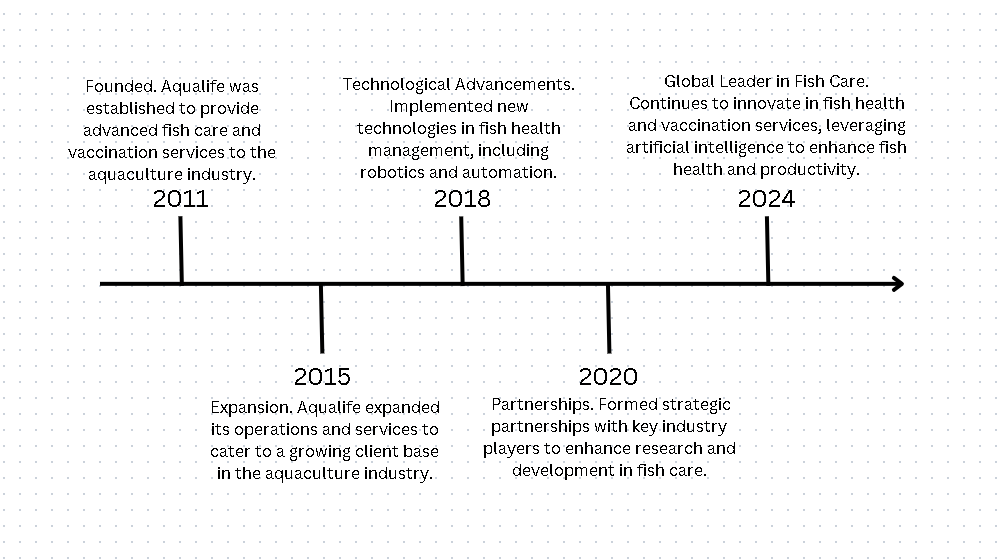
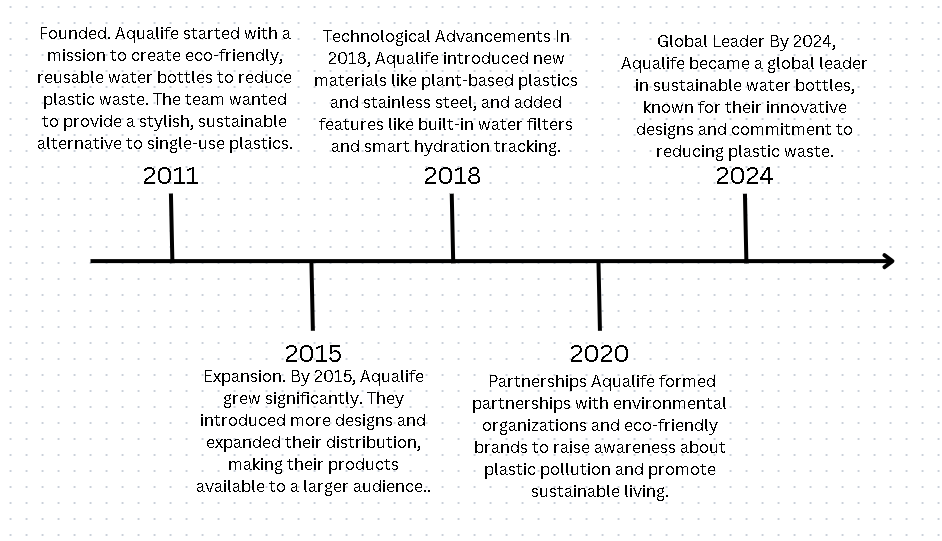
history

Changed region(s): [[0.0308, 0.0296, 0.9544, 0.9168]]

diff --git a/HTML/history.html b/HTML/history.html
@@ -4,7 +4,32 @@
 <head>
     <link rel="stylesheet" href="../CSS/style.css">
 <style>
-
+.box{
+    display:flex;
+    flex-direction:row;
+    height:800px;
+    height:max-content;
+}
+.imagetimeline{
+    width: 100%;
+    height: 100%;
+}
+.timelinecontainer{
+   display:flex;
+   flex: 0 0 20%;
+    flex-direction: column;
+   
+}
+.timelinecontainer>p{
+    flex-shrink: 1;
+    font-size:large;
+    text-align: center;
+    padding: 2% 2% 2% 2%;
+}
+.timelineheading{
+    text-align: center;
+    
+}
 @media (max-width:1600px){
     #navbar>a:link,#navbar>a:visited{
         display:flex;
@@ -15,6 +40,10 @@
     
     padding-top: 2%;
     padding-bottom: 2%;
+    }
+    .box{
+        flex-wrap: wrap;
+        flex-direction: column;
     }
 }
 </style>
@@ -30,8 +59,46 @@
 </nav>
 
 <article class="product">
-    <div clas></div>
+    <div class="imagecontainer">
+        <img src="../Images/History timeline.png" class="imagetimeline">
+    </div>
 </article>
-
+<article class="box">
+    <div class="timelinecontainer">
+        <div class="timelineheading">
+            <h1>2011</h1>
+            <h2>Founding of Aqualife</h2>
+        </div>
+        <p>Aqualife was established with the mission to revolutionize the aquaculture industry through advanced fish care and vaccination services. This pioneering initiative aimed to improve the health and productivity of farmed fish, addressing the industry's significant challenges related to fish diseases and mortality rates. The founding team, comprised of experts in marine biology and biotechnology, set out to create innovative solutions that would benefit both fish farmers and the global food supply chain.</p>
+    </div>
+    <div class="timelinecontainer">
+        <div class="timelineheading">
+            <h1>2015</h1>
+            <h2>Expansion of Aqualife</h2>
+        </div>
+        <p> Building on its early successes, Aqualife underwent a significant expansion in 2015. The company increased its operational capacity and broadened its range of services to meet the growing demands of the aquaculture industry. This expansion included the establishment of new facilities, hiring additional staff, and extending its geographic reach to serve a larger client base. The company's commitment to excellence and innovation helped solidify its reputation as a leader in fish health management.</p>
+    </div>
+    <div class="timelinecontainer">
+        <div class="timelineheading">
+            <h1>2018</h1>
+            <h2>Technological Advancements</h2>
+        </div>
+        <p>In 2018, Aqualife made significant strides in integrating cutting-edge technologies into its operations. The implementation of robotics and automation in fish health management allowed for more precise and efficient monitoring and treatment of fish. These technological advancements not only improved the accuracy of diagnostics but also enhanced the overall effectiveness of vaccination and care procedures. Aqualife's adoption of technology positioned it at the forefront of the industry, setting new standards for fish health management.</p>
+    </div>
+    <div class="timelinecontainer">
+        <div class="timelineheading">
+            <h1>2020</h1>
+            <h2>Parternships with Partners</h2>
+        </div>
+        <p>Recognizing the importance of collaboration, Aqualife formed strategic partnerships with key industry players in 2020. These partnerships aimed to enhance research and development efforts, leading to the creation of more advanced and effective fish care solutions. By working closely with other experts and organizations in the field, Aqualife was able to leverage shared knowledge and resources to drive innovation and improve outcomes for fish farmers worldwide.</p>
+    </div>
+    <div class="timelinecontainer">
+        <div class="timelineheading">
+            <h1>2024</h1>
+            <h2>Global Leader in Sustainable Hydration</h2>
+        </div>
+        <p>By 2024, Aqualife had established itself as a global leader in the sustainable hydration market. The company continued to innovate, introducing new designs and features that catered to the evolving needs of their customers. Aqualife's commitment to sustainability, combined with their high-quality products and strong brand identity, made them a trusted choice for environmentally conscious consumers around the world. Their ongoing efforts to promote reusable water bottles and reduce plastic waste contributed significantly to the global movement towards a more sustainable future.</p>
+    </div>
+</article>
 </body>
 </html>
